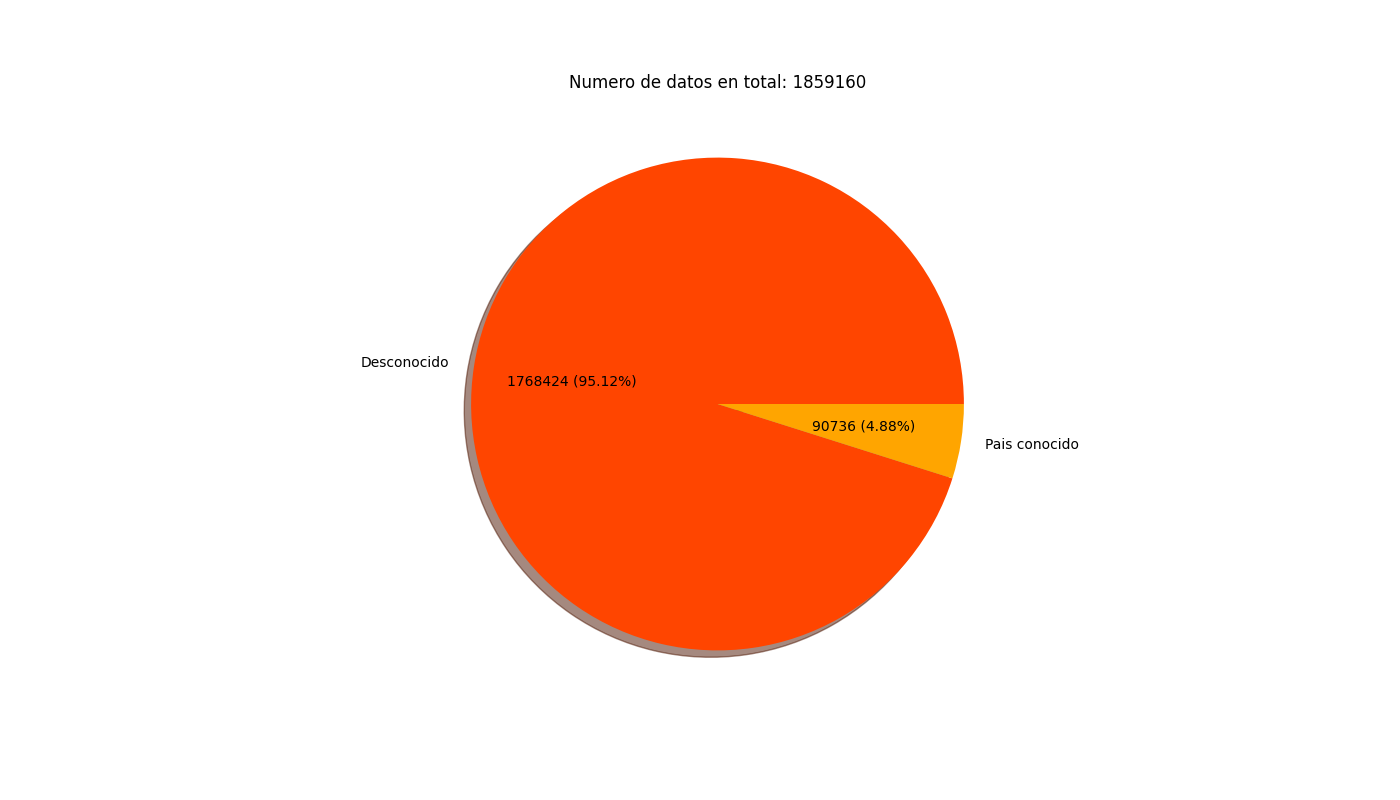
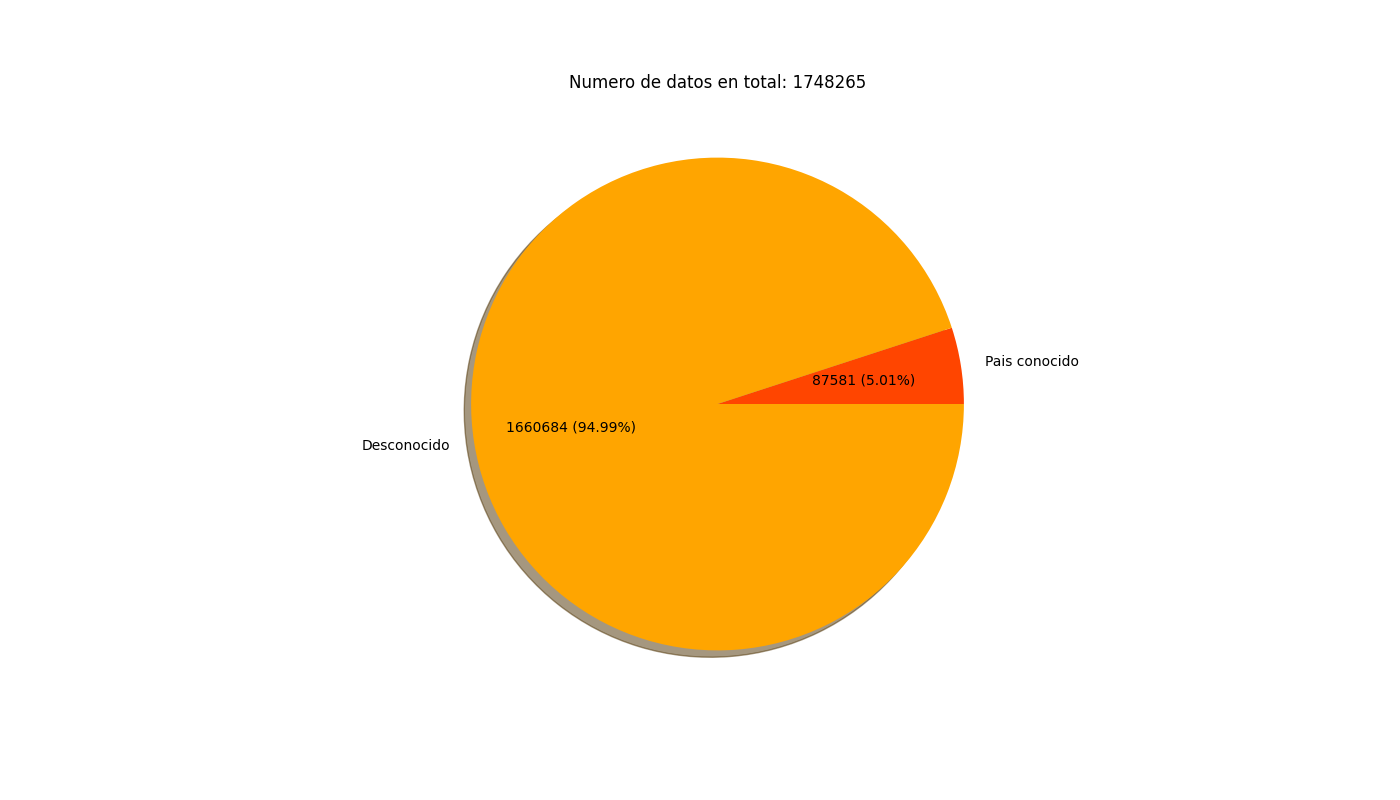
mejoras menores y nuevoas scripts

diff --git a/captura de datos/7.create_sample.py b/captura de datos/7.create_sample.py
@@ -1,0 +1,19 @@
+import datetime
+import pandas as pd
+from sklearn.utils import resample
+
+now = datetime.date.today()
+now = now.strftime('%d-%m-%Y')
+output_path1 = "./twitter data/datos en bruto/catched_tweets_full_data.csv"
+output_path2 = "./twitter data/datos en bruto/muestras/catched_tweets_sample_" + str(now) + ".csv"
+
+sample_size = 2500
+print("\nCargando datos")
+df = pd.read_csv(output_path1, encoding='utf8', dtype=str, engine='python')
+print("Muestreando datos a partes iguales")
+df_es = resample(df[df.lang == 'es'], replace=False, n_samples=sample_size, random_state=1)
+df_en = resample(df[df.lang == 'en'], replace=False, n_samples=sample_size, random_state=1)
+df = pd.concat([df_en, df_es])
+
+print("Proceso terminado")
+df.to_csv(output_path2, index=False, encoding="utf-8")

diff --git a/captura de datos/2.clean_data.py b/captura de datos/2.clean_data.py
@@ -21,7 +21,7 @@ for i, row in df.iterrows():
         df.at[i, 'text'] = texto_nuevo
         datos_reparados += 1
 
-    if str(df.at[i, 'text']).endswith('…'):
+    if str(df.at[i, 'text']).endswith('…') or str(df.at[i, 'lang']) not in ['en', 'es']:
         datos_eliminados += 1
         df = df.drop([i])
 

diff --git a/README.md b/README.md
@@ -2,7 +2,7 @@
 
 Instalar requerimientos con: pip install -r requirements.txt
 
-Para la realización de este proyecto se realizo la captura de 1.859.160 Tweets relacionados con la pandemia del covid-19, esto con el fin de analizarlos y poder entrenar un modelo de ML que fuera capaz de discriminar si el texto del Tweet esta asociado a un sentimiento positivo o negativo, además de identificar un sentimiento mas especifico como el luto, los diferentes programas usados para la captura, procesamiento y limpieza de los datos junto con el entrenamiento del modelo y sus resultados se presentan a continuación y están presentes en este repositorio, es importante destacar también que se descartaron los Retweets y para el entrenamiento del modelo se usaron solo datos en idiomas ingles y español, los cuales al momento de su captura fueron normalizados y se capturaron de diferentes países de todo el mundo.
+Para la realización de este proyecto se realizo la captura de 1.748.265 Tweets relacionados con la pandemia del covid-19, esto con el fin de analizarlos y poder entrenar un modelo de ML que fuera capaz de discriminar si el texto del Tweet esta asociado a un sentimiento positivo o negativo, además de identificar un sentimiento mas especifico como el luto, los diferentes programas usados para la captura, procesamiento y limpieza de los datos junto con el entrenamiento del modelo y sus resultados se presentan a continuación y están presentes en este repositorio, es importante destacar también que se descartaron los Retweets y para el entrenamiento del modelo se usaron solo datos en idiomas ingles y español, los cuales al momento de su captura fueron normalizados y se capturaron de diferentes países de todo el mundo.
 
 ### Captura y preprocesamiento de datos:
 
